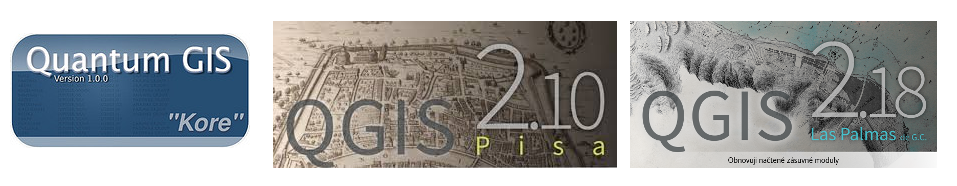
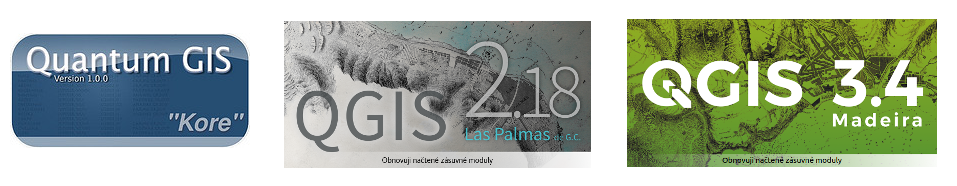
locator + details added

diff --git a/intro/popis_rozhrani.rst b/intro/popis_rozhrani.rst
@@ -8,7 +8,7 @@
    :width: 1.5em
 .. |geographic| image:: ../images/icon/CRS.png
    :width: 1.5em
-.. |log| image:: ../images/icon/mIconInfo.png
+.. |log| image:: ../images/icon/mMessageLog.png
    :width: 1.5em
 .. |mActionZoomOut| image:: ../images/icon/mActionZoomOut.png
    :width: 1.5em
@@ -50,6 +50,8 @@
     :width: 1.5em
 .. |mActionIdentify| image:: ../images/icon/mActionIdentify.png
     :width: 1.5em
+.. |rendering_bar| image:: ../images/icon/rendering_bar.png
+    :width: 4.5em
 
 
 .. index::
@@ -126,10 +128,64 @@ Jednotlivé části jsou posány níže.
 .. index::
    pair: souřadnice mapového okna; stavový řádek
 
+
+Lokátor (vyhledávač)
+^^^^^^^^^^^^^^^^^^^^ 
+
+Pro lepší orientaci mezi algoritmy, nástroji, vrstvami a dalšími součástmi je
+možné používat okno pro vyhledávání - :item:`Lokátor`.
+Zadáním části názvu vyhledávané vrstvy nebo nástroje se filtruje mezi všemi
+položkami. Výledky jsou řazeny do kategorií. Na obrázku je vidět, že po zadání
+textu se vyhedají vrstvy obsahující vložený text, níže pak algoritmy s
+odpovídajícím názvem, ale i nástroje aplikovatelné na vybrané vrstvy. 
+
+.. figure:: images/locator_search_bar.png
+   :class: medium
+   
+   Vyhledávací okno s ukázkou nalezených výsledků toztříděných do jednotlivých
+   kategorií.
+   
+.. tip:: Pokud chceme vyhledávat v konkrétní sekci, například pouze vrstvu, nebo
+   pouze nístroj, tak můžu nastavit filtrování pouze v konkrétní kategorii.
+   Třídění je možné ovlyvnit zadáním parametru před samotným textem. Parametr
+   je možné napsat přímo jako text, anebo si vybrat ze seznamu. Seznam se
+   aktivuje po kliknutí do vyhledávacího řádku. Zkratku buď opíšeme a přidáme
+   za ni mezeru, anebo ji dvouklikem vložíme. Za zkratku pak píšeme část
+   textu pro vyhledávání.
+   Poslední variantou je výběr v menu, které se otevře po kliknutí na symbol
+   lupy.
+   
+   .. figure:: images/locator_thema.png
+      :class: large
+   
+      Vyhledávací okno s vyhledáváním omezeným pouze na vrstvy v projektu s
+      ukázkou nalezených výsledků.
+      
+   V případě potřeby je možné upravit nastavení vyhledávání. Je možné nastavit
+   ve kterých skupinách se vyhledává, nebo jakými zkratkami se nastavují.
+   Nastavení je vhorním menu :menuselection:`Nastavení --> Možnosti`, záložka
+   :item:`Lokátor`.
+
+   .. figure:: images/locator_settings.png
+      :class: medium
+   
+      Nastavení fungování lokátoru, aktivní skupiny a jejich zkratky.
+   
+Informace o stavu  
+^^^^^^^^^^^^^^^^^ 
+
+Pole za vyhledávačem je místo, kde se uživateli zobrazují běžné informace.
+Příkladem je vypsání zprávy o uložení projektu s vypsáním cesty k souboru
+projektu. Kousek dál je místo, kde se zobrazuje ikonka při překreslování 
+mapového okna. Pokud je zde vykreslená ikonka načítání |rendering_bar|, tak
+se aktuálně překresluje obsah mapového okna. Po ukončení vykreslování tato
+ikonka zmizí. Délka překreslování záleží na vykreslovaném obsahu. 
+
+
 Souřadnice
 ^^^^^^^^^^ 
 
-První část stavového řádku slouží pro orientaci v mapovém okně. Zde se
+Další část stavového řádku slouží pro orientaci v mapovém okně. Zde se
 zobrazuje buď aktuální souřadnice ukazatele myši v mapovém okně, nebo tzv.
 extent (rozsah území aktuálně zobrazeného v mapovém okně). Ukázka obou možností
 je zobrazena na následujícím obrázku. Jako přepínač mezi uvedenými fukcemi
@@ -187,8 +243,9 @@ překreslování není potřebné, tak je možné jej potlačit - mapové okno s
 překreslovat. Pro takovéto nastavení je ve stavovém řádku položka s checkboxem
 :item:`Vykreslování`.
 
-.. tip:: Pokud potřebujete přerušit vykreslování jednorázově, tak je to možné 
-   provést stisknutím klávesy :item:`Esc`.
+.. tip:: Pokud potřebujete přerušit vykreslování tak je možné to provést pomocí
+         vypnutí překreslování. To se může hodit zejména při vykreslování 
+         náročných vrstev, když je zapotřebí pouze změnit obsah mapového okna. 
 
 .. index::
    pair: souřadnicový systém mapového okna; stavový řádek

diff --git a/instalace/index.rst b/instalace/index.rst
@@ -11,7 +11,7 @@ Vývoj projektu QGIS začal v roce 2002 pod názvem *Quantum GIS*. Verze
 .. figure:: images/qgis_versions.png
    :class: large
    
-   Úvodní obrazovka verze 1.0, 2.10 a 2.18.
+   Úvodní obrazovka verze 1.0, 2.18 a 3.4.
 
 Program QGIS je multiplatformní, lze jej tedy nainstalovat na různé
 operační systémy. V současnosti jsou oficiálně podporovány MS Windows,

diff --git a/intro/import_export.rst b/intro/import_export.rst
@@ -104,6 +104,8 @@ vrstev. Pravým kliknutím na vrstvu vyvoláme kontextové menu a vybereme
 
 Jak exportovat konkrétní data se dozvíme v jednotlivých kapitolách.
 
+.. _sour-system:
+
 Výběr souřadnicového systému
 ----------------------------
 

diff --git a/intro/index.rst b/intro/index.rst
@@ -8,9 +8,7 @@ První kroky
    ../instalace/index
    prvni_kroky
    popis_rozhrani
-   lokalizace
    import_export
-   sour_system
 
 
 
